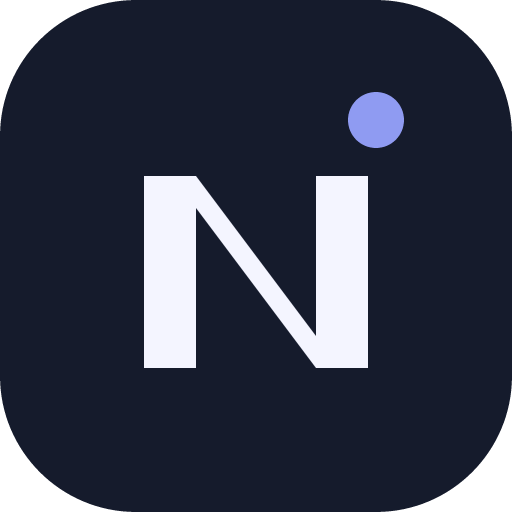
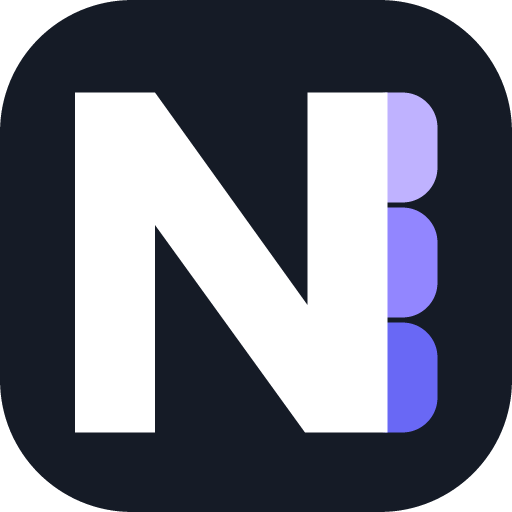
Add new SVG assets and update README for NoteX branding
- Introduced dark and light SVG logos for NoteX in .github/assets.
- Updated README.md to include responsive logo display based on color scheme preference.
- Added comparison SVG for branding in landing/assets/brand.
- Created new SVG files for dark and light branding marks.
- Updated favicon and app icons to reflect new branding.
- Adjusted CSS styles for brand mark colors and letter spacing.
- Enhanced brand-related scripts to utilize new SVG assets.

diff --git a/landing/index.html b/landing/index.html
@@ -153,18 +153,52 @@
                 <div class="littlebrand">
                   <svg
                     class="brand-mark"
-                    viewBox="0 0 64 64"
-                    width="36"
-                    height="36"
-                    fill="none"
                     aria-hidden="true"
+                    viewBox="0 0 256 256"
+                    width="19"
+                    height="19"
+                    fill="none"
                   >
-                    <rect class="mark-tile" width="64" height="64" rx="17" />
-                    <path
-                      class="mark-letter"
-                      d="M18 46V22h6.5l15 20V22H46v24h-6.5l-15-20v20Z"
+                    <rect
+                      class="mark-tile"
+                      width="256"
+                      height="256"
+                      rx="66"
+                      fill="#ffffff"
                     />
-                    <circle fill="#8f9bf2" cx="47" cy="15" r="3.5" />
+                    <g transform="translate(-30 -30) scale(1.25)">
+                      <g>
+                        <rect
+                          x="165"
+                          y="61"
+                          width="34"
+                          height="44"
+                          rx="14"
+                          fill="#bfb2ff"
+                        />
+                        <rect
+                          x="165"
+                          y="107"
+                          width="34"
+                          height="44"
+                          rx="14"
+                          fill="#9286ff"
+                        />
+                        <rect
+                          x="165"
+                          y="153"
+                          width="34"
+                          height="44"
+                          rx="14"
+                          fill="#6968f5"
+                        />
+                      </g>
+                      <path
+                        class="mark-letter"
+                        d="M54 197V61h32l61 85V61h32v136h-33l-60-83v83Z"
+                        fill="#151b26"
+                      />
+                    </g>
                   </svg>
                   NoteX
                 </div>

diff --git a/landing/styles.css b/landing/styles.css
@@ -16,8 +16,8 @@
   --accent-soft: #edf0ff;
   --primary-hover: #313d60;
   --frame: #ffffff99;
-  --mark-tile: #151b2c;
-  --mark-letter: #f4f5ff;
+  --mark-tile: #151b26;
+  --mark-letter: #ffffff;
   --canvas: var(--paper);
   --surface: var(--white);
   --surface-raised: var(--surface-soft);
@@ -58,8 +58,8 @@
   --accent-soft: #1d2746;
   --primary-hover: #cdd5f1;
   --frame: #18203299;
-  --mark-tile: #f4f5ff;
-  --mark-letter: #151b2c;
+  --mark-tile: #ffffff;
+  --mark-letter: #151b26;
   --border-strong: #414e68;
   --green: #93ceb2;
   --focus: #a5b1ff;
@@ -79,8 +79,8 @@
     --accent-soft: #1d2746;
     --primary-hover: #cdd5f1;
     --frame: #18203299;
-    --mark-tile: #f4f5ff;
-    --mark-letter: #151b2c;
+    --mark-tile: #ffffff;
+    --mark-letter: #151b26;
     --border-strong: #414e68;
     --green: #93ceb2;
     --focus: #a5b1ff;

diff --git a/landing/home.css b/landing/home.css
@@ -1172,8 +1172,8 @@ button {
 .window-head .brand-mark {
   width: 19px;
   height: 19px;
-  --mark-tile: #f4f5ff;
-  --mark-letter: #151b2c;
+  --mark-tile: #ffffff;
+  --mark-letter: #151b26;
 }
 .window-head {
   height: 38px;

diff --git a/landing/shell.css b/landing/shell.css
@@ -41,7 +41,7 @@ body > .docs-shell {
   flex: none;
   color: var(--ink);
   font: 800 21px/1 var(--font-display);
-  letter-spacing: -0.055em;
+  letter-spacing: 2px;
   white-space: nowrap;
 }
 .site-brand .brand-mark {

diff --git a/landing/brand.md b/landing/brand.md
@@ -1,8 +1,17 @@
 # NoteX mark
 
-The mark is a custom vector N, with a separate lavender dot. It uses a 64 × 64
-grid, a 17-unit corner radius, and a path rather than a font glyph. It stays
-sharp at any scale and does not depend on a font download.
+The website uses the user-approved three-tab SVGs on a 256 × 256 grid. The tile
+has a 66-unit corner radius. The N and tabs retain the approved
+`translate(-30 -30) scale(1.25)` transform. Each tab is 34 × 44 with radius 14,
+placed at y=61, 107, and 153. The N is an outlined path, independent of fonts.
+The wordmark remains Manrope with 2px letter spacing.
+
+The exact approved originals are in `assets/brand/notex-dark.svg` and
+`assets/brand/notex-light.svg`; the approved comparison is alongside them.
+`scripts/brand.mjs` reads those SVGs to render the shared header/footer mark.
+It changes only the accessibility wrapper and theme hooks, preserving geometry
+and scale at every size. Header, footer, and product-window preview sizes are
+32px, 28px, and 19px respectively. The favicon uses the same approved artwork.
 
 - `assets/notex-mark.svg`: follows the embedding color scheme.
 - `assets/notex-mark-light.svg`: dark tile and light N, for light surfaces.
@@ -11,16 +20,15 @@ sharp at any scale and does not depend on a font download.
 - `assets/favicon.ico`: small-size fallback for older browsers.
 - `assets/apple-touch-icon.png`: fixed home-screen icon.
 
-The lavender dot remains `#8f9bf2` in both variants. Keep the same geometry,
-padding and dot position in every export. Inline marks use the site theme
-tokens, so manual theme overrides are reflected immediately. The favicon
-also switches explicitly with the site preference.
+The three tab colors are `#bfb2ff`, `#9286ff`, and `#6968f5`, unchanged between
+themes. Dark ink is `#151b26`; the light tile/letter is white. Inline marks
+follow the site theme tokens, and the favicon switches with the site preference.
+Asset filenames `notex-mark-light.svg` / `notex-mark-dark.svg` refer to the site
+theme; the approved originals' names refer to the tile color.
 
-The desktop/web app's sidebar and titlebar are dark in both app themes, so
-they use the light-tile variant. Native desktop icons use a fixed dark tile
-with a fine light outline: operating systems do not swap application icons
-when the website theme changes.
+The desktop/web app and native icon files remain independent of this website
+revision. Do not copy this study into `public/assets/` or `src-tauri/icons/`
+until the app-brand update is requested and the website mark is approved.
 
-Regenerate the native app icons with `npm run tauri:icon`. The source is
-`public/assets/notex-mark-native.svg`; the matching web SVGs are in
-`public/assets/` and `landing/assets/`.
+The app's existing `npm run tauri:icon` command continues to use its own source
+in `public/assets/notex-mark-native.svg`. This website study does not update it.

diff --git a/README.md b/README.md
@@ -1,4 +1,10 @@
-# NoteX
+<p align="center">
+  <picture>
+    <source media="(prefers-color-scheme: dark)" srcset=".github/assets/notex-readme-dark.svg">
+    <source media="(prefers-color-scheme: light)" srcset=".github/assets/notex-readme-light.svg">
+    <img src=".github/assets/notex-readme-light.svg" alt="NoteX" width="360" height="352">
+  </picture>
+</p>
 
 NoteX is a place to write, organize, and find the information you want to keep.
 Use it for project references, study notes, useful links, ideas, and everyday
